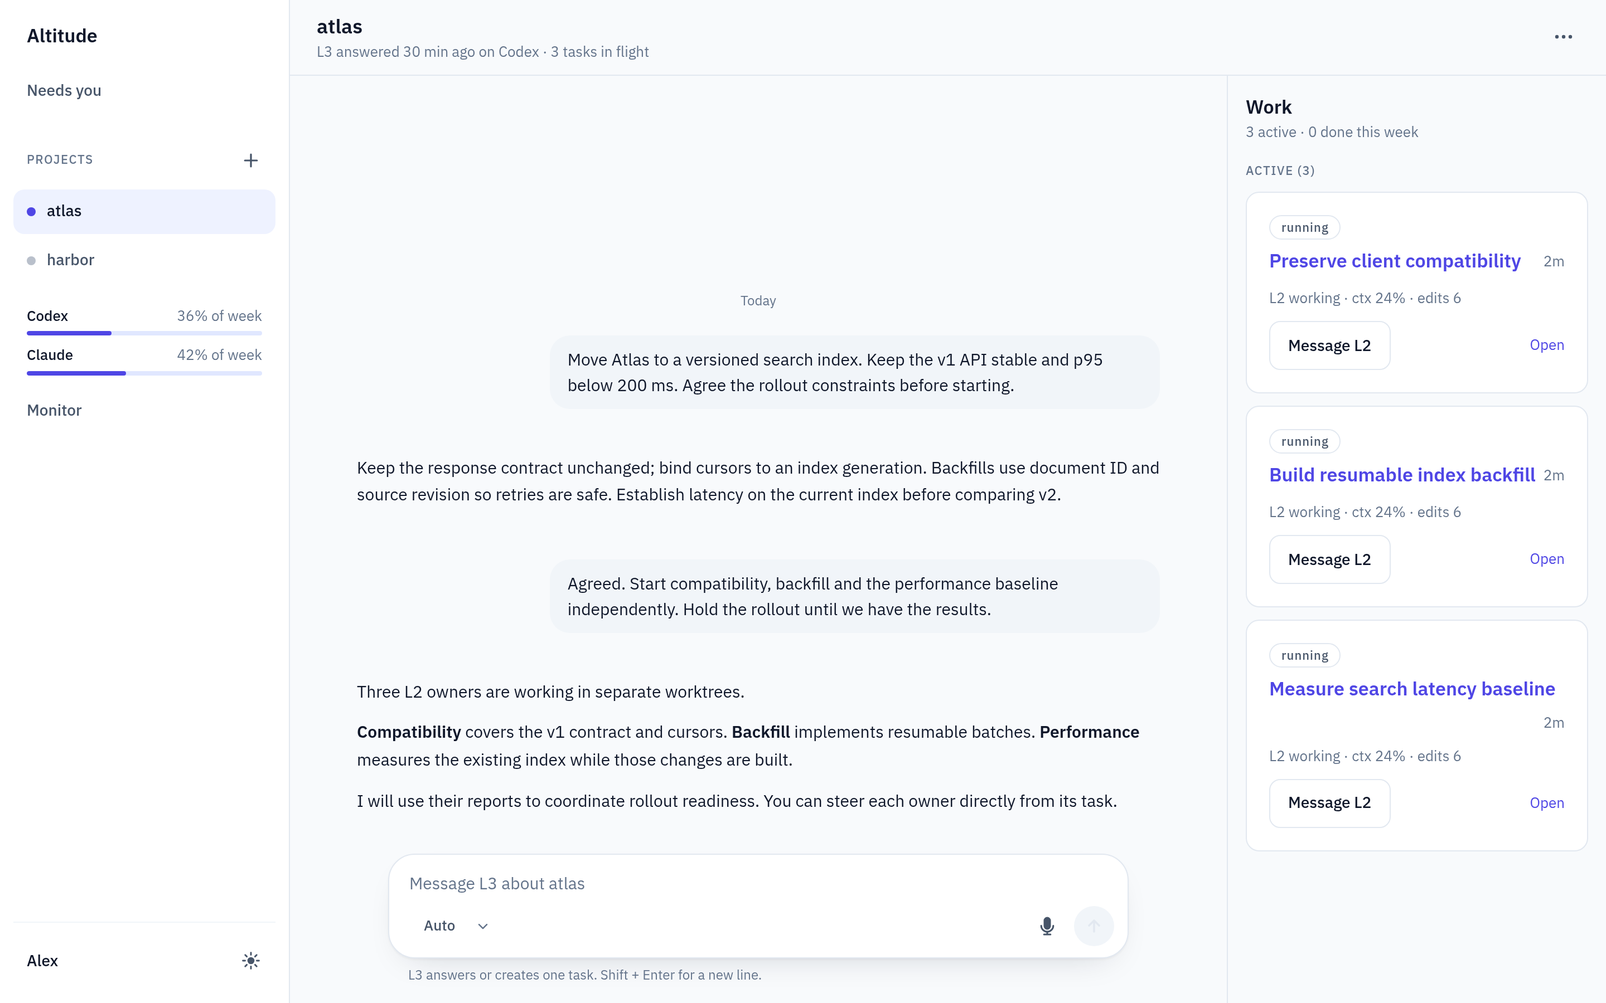
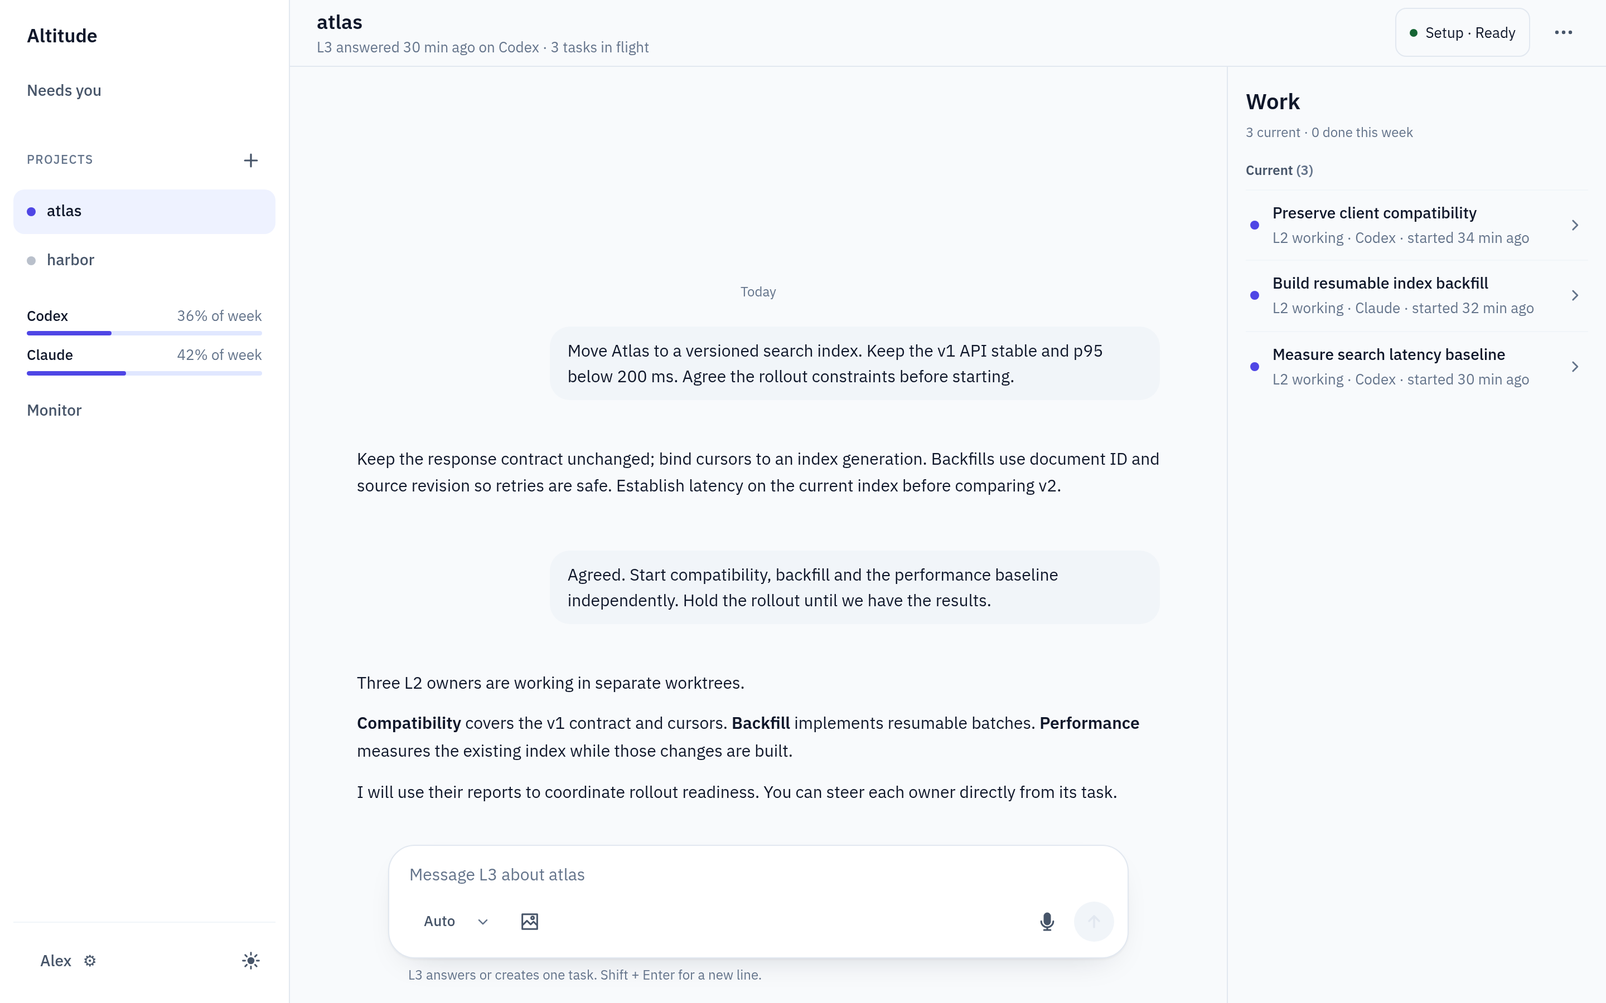
Prepare reference documentation for the concise README

diff --git a/tests/test_project_layers.py b/tests/test_project_layers.py
@@ -45,8 +45,6 @@ PROVIDER_BASELINE = {
 
 #: Occurrences of the operator's name per file, across the layers a reader meets.
 OPERATOR_BASELINE = {
-    "docs/ARCHITECTURE.md": 4,
-    "docs/SESSION_LIFECYCLE.md": 3,
     "web/src/routes/Task.test.tsx": 1,
 }
 

diff --git a/docs/ARCHITECTURE.md b/docs/ARCHITECTURE.md
@@ -10,7 +10,7 @@ acceptance, parent issue and remaining scope; completing a task need not complet
 [incremental delivery](CLI.md#incremental-issue-delivery).
 
 ```text
-Burak
+The operator
   ├─ project direction and roadmap ───────────────► L3
   │                                                  │
   │                                                  └─ dispatches L2 task owners
@@ -45,8 +45,8 @@ memory store. Project-local authority, proposal checkpoints, merge holds and ver
 remain governed by the existing boundaries.
 
 L2 receives the request, repository context, expected files, worktree, branch, and merge policy, and chooses
-the lightest useful execution shape. Its conversation with Burak is stored apart from tool logs, so
-Burak messages it directly without routing through L3. Messages queue on the task and reach the
+the lightest useful execution shape. Its conversation with the operator is stored apart from tool logs, so
+the operator messages it directly without routing through L3. Messages queue on the task and reach the
 worker at its next checkpoint; an explicit Stop ends a worker. Task message writers hold the project
 lock and atomically replace each conversation or inbox file, so concurrent readers see complete records.
 Appending a message to a blocked
@@ -884,7 +884,8 @@ A provider-reported reset schedules resumption. Fresh attempts retain the existi
 uncommitted work, and validate its checkout and adopted ancestry. Task conversations, worker evidence,
 PRs, expected files, questions and merge holds remain. Tier two is L3: whatever remains blocks only its own
 task, files private incident evidence (one incident per source project and fault kind per 24-hour
-window) with its public issue, and leaves an FYI and one message naming both in that same project's L3 queue; a repeat of that kind
+window), publishes its issue when a target is configured, and leaves an FYI and one message with the
+incident and publication status in that same project's L3 queue; a repeat of that kind
 blocking another task or changing its details adds one line for L3 within that window. Full fault
 reasons are the task-local observations: unchanged blockers stay quiet even after the incident window
 expires, including alternating observations from tasks sharing a kind. Changed observations update
@@ -953,9 +954,9 @@ begins without terminal evidence ends visibly uncertain instead of launching ove
 No probe resumes a worker, resolves a question, or releases a merge hold.
 L3 reconciles the next step when a finite probe ends and gives an evidenced heads-up for significant
 stalled work. Repeated observations stay quiet; terminal evidence promises no further scheduled check.
-Project-local repairs remain owned by the affected project. Every incident is published as one
-GitHub issue by `incidents.publish_issue`: system faults publish after the fault lock is released,
-and `alt incident new` publishes after the record is written. The daemon owns the product target
+Project-local repairs remain owned by the affected project. With publication configured,
+`incidents.publish_issue` publishes each incident as one GitHub issue: system faults publish after
+the fault lock is released, and `alt incident new` publishes after the record is written. The daemon owns the product target
 seam, `server.issue_repository`: `config.incident_repository()`, the machine setting
 `incident_repository` when saved (`false` is off), else `ALTITUDE_UPSTREAM_ISSUE_REPOSITORY` in
 altd's environment, and nothing else; off keeps every incident on the machine as a pending record
@@ -1036,6 +1037,8 @@ authorization and post-change health verification.
 
 ## Interfaces and storage
 
+### Conversation-audit pilot
+
 `audit.py` owns the finite pilot for the project named in `config.py`. The operator explicitly starts
 it; installation/registration do not enable it. `audit.json` stores reviewer, expiry, attempts,
 reviewed exchange identities and finding-supply receipts. Sessions wait twelve hours and four new
@@ -1072,6 +1075,8 @@ replay. L3 verifies current tasks/issues and later evidence before action. No is
 dispatcher or instruction editor belongs to the reviewer. Unavailable optional audit evidence never
 blocks ordinary conversation. Model-quality evaluation is separately authorized and reported;
 deterministic fixtures establish application behavior only.
+
+### Image input
 
 Operator images belong to their durable project or task message. `images.py` validates PNG, JPEG
 and static WebP, bounds encoded bytes and decoded dimensions, and normalizes orientation and color
@@ -1112,6 +1117,8 @@ Fresh L2 attempts carry delivered image-message captions and deduplicated canoni
 the same task. Larger sets use native visual readers; history does not become pending delivery again.
 See [image delivery and recovery](SESSION_LIFECYCLE.md#image-delivery-and-recovery).
 
+### Task usage
+
 Task token accounting is passive. `usage.py` retains each recorded task owner identity before a
 resume or recovery replaces it, and asks `engines.py` for normalized local observations. The daemon
 collects at most once per ten seconds per active task; HTTP and CLI reads serve the persisted
@@ -1137,6 +1144,8 @@ parentage kind, owning session, depth when known, and the owning session's recor
 request counters and optional unsplit provider totals remain separate; neither is added again to
 task totals. Missing native evidence yields null counts; a readable native source with no discovered
 helpers yields an observed empty set with partial coverage. No spawn-completeness claim is made.
+
+### Validation and release
 
 The web build uses pnpm's frozen lockfile and emits `web/dist/` through `make web`. `make check`
 runs Python, web unit tests, typecheck/build and the separate Playwright `web/e2e/*.pw.ts` suite.
@@ -1192,6 +1201,8 @@ See [browser verification and recovery](DEVELOPMENT.md#browser-verification-and-
 published private-preview version and release notes. They add no runtime lifecycle state and
 do not gate automatic activation of merged changes. The UI and testing rules remain in the
 project instructions file, which both worker personas direct the task owner to read first.
+
+### Conversations and navigation
 
 The Python server owns state transitions and JSON APIs. The React app is one shell around four
 pages, specified in `design/wireframes/SPEC.md`: Needs you at `/` (every decision across projects as
@@ -1366,6 +1377,8 @@ Loading, empty, missing, denied and unsupported states are explicit; Retry clear
 while reading, and copy failure leaves the full path selectable. Reads are uncached. Closing the
 tab preserves the source conversation and draft. This feature introduces no provider coupling.
 
+### Message delivery and voice
+
 A message sent while L3 is busy is queued, never refused: the composer stays open, the send control
 keeps its arrow, the header names the active work, and the message shows as a muted queued row with
 its run order and Remove until
@@ -1373,7 +1386,7 @@ its turn starts, when the row becomes the turn's bubble and typing indicator. Qu
 user history row and publishes the active record under the same lifecycle guard used by the API's
 history/queue/active snapshot. Routing precedes claim; failed history admission restores the waiting
 queue. The claimed turn reuses its admission and route choice, so the text stays visible through
-handoff and is delivered once. A control takes Burak's chat back off the queue only while it
+handoff and is delivered once. A control takes the operator's chat back off the queue only while it
 waits. Server-triggered work is also visible in its FIFO position but is not editable. The queue is a
 file in the project directory, so a reload, another device and a restart all see the same pending
 messages. Each turn drains it at its own boundary rather than at the next tick: consecutive text chat
@@ -1486,6 +1499,8 @@ entry index indicates an in-app predecessor. With no such predecessor, app Back 
 task entry with the owning project's L3 conversation. Browser Back remains native, and links to
 other pages or tasks still push entries. `web/e2e/task-navigation.pw.ts` exercises Back and Forward
 with real browser history at both viewports.
+
+### Work and attention
 
 The task card (`web/src/components/TaskCard.tsx`, spec §3.5) is one component in two sizes: the
 bordered card under an L3 reply that created the task and the row in the work panel. Its meta line
@@ -1686,6 +1701,8 @@ heads-ups from historical automatic calls that inherited `by: "l3"`; history is 
 nor classified by text. The [L3 persona](../personas/l3.md) owns selection guidance.
 There is no project inbox file and no `fyis` in the digest or overview.
 
+### Voice backend
+
 Voice transcription sits behind the capability seam as one machine setting, `voice`, in the private
 settings file: `browser` (the default), `local`, or an endpoint object with `url`, optional `model`
 and optional `key`. `GET /api/voice` reports backend, URL, model, a `key_set` boolean and an opaque
@@ -1728,6 +1745,8 @@ transcribing, restores the editable field after cancel or error, and leaves the 
 progressive enhancement. Phone access uses an explicitly configured private HTTPS address whose
 certificate covers that address. Safari can use the microphone after the CA is trusted on the phone;
 typing remains available without speech services.
+
+### Design evidence
 
 The same server serves each project's wireframe boards. `GET /design/<project>` redirects to
 `/design/<project>/design/wireframes/index.html`, read from that project's own deployment checkout on
@@ -1777,6 +1796,8 @@ their revision and link back to its historical question; current question metada
 replacing the displayed capture. First acceptance also verifies the saved evidence; identical retries
 of an already recorded decision retain their receipt. Viewing and follow-ups do not decide anything,
 and neither design acceptance nor publication releases a merge hold.
+
+### Monitor and live sessions
 
 The Monitor page reads `/api/monitor`; no hold, incident, route or follow-up work is derived from
 those readings. Its separate update section reads the shared overview and offers the existing

diff --git a/docs/SESSION_LIFECYCLE.md b/docs/SESSION_LIFECYCLE.md
@@ -708,8 +708,8 @@ the resolved live record has moved; subsequent reads use the archived conversati
 `dispatch.resume` is the only way a session is launched again, and altd owns it for message-triggered and
 explicit resumes. `alt task resume`, `stop`, and `reject` require a reason and persist a task-local
 `daemon_request`; the CLI process performs no Git or worker operation. One `daemon-request` event names
-the task, operation, actor (`l3` or `burak`), reason, and request id. Altd executes the request, refuses
-a changed state or worker/session identity, and makes a retry with the same reason and actor idempotent
+the task, operation, actor (`l3` or `config.OPERATOR_ACTOR`), reason, and request id. Altd executes the
+request, refuses a changed state or worker/session identity, and makes a retry with the same reason and actor idempotent
 while its terminal state/worker receipt still matches. A later lifecycle receives a new request and event.
 The inbox and `resume_after` are the coordinator-to-daemon boundary: they survive coordinator exit and daemon
 restart. The keyed runner is the in-process fast path; a durable claim is the cross-process fence. Its
@@ -767,7 +767,7 @@ the replacement worker. Failed sends restore their text alongside newer draft ed
 the operator switches to Live session before the response arrives. Accepted sends remain sent.
 `alt task resume --reason …` is also an explicit continuation; Reject ends the task and removes its
 worker in altd. Stop does not undo completed external effects. An L2 that blocks with
-`--fault` takes the system-fault path instead of asking Burak: the task, incident, FYI and L3
+`--fault` takes the system-fault path instead of asking the operator: the task, incident, FYI and L3
 notification all stay in its project. Incidents use the source project and kind for a 24-hour window;
 another task newly blocked by that kind or changed same-kind details still notify its L3 with the
 same incident reference within the window. Each task retains its full fault reason, so unchanged
@@ -776,9 +776,10 @@ resume based on older evidence; an unchanged observation preserves a supported r
 Repair-task faults (`--source recovery`) never wake L3
 again. Faults without a project notify registered `altitude`, or only update the machine fault
 ledger if it is absent. A failed resume blocks the task with an incident and leaves the provider
-conversation to its project's L3. Every incident becomes one sanitized
-[incident issue](CLI.md#incident-issues) at the daemon's configured product target; local
-incidents and project-local recovery work stay with the affected project. An incident from another
+conversation to its project's L3. When a publication target is configured, every incident becomes
+one sanitized [incident issue](CLI.md#incident-issues) there; without one, it stays local with an
+explicit pending-publication reason. Local incidents and project-local recovery work stay with
+the affected project. An incident from another
 managed project sends one fixed public issue-link notification to registered local `altitude` when
 its Git origin matches that target. Without a matching project, the issue stands alone. The
 notification moves no evidence and creates, reuses, resumes, or coordinates no receiving-project
@@ -1045,7 +1046,7 @@ Leaving a voice composer releases microphone tracks and cancels recording or Sto
 An explicit voice Send completes for its original project or task despite navigation; pending status
 and any recoverable failure stay in that source conversation. Outstanding microphone permissions and
 transcription results cannot populate a different conversation.
-L3 runs headless, so its only checkpoint is the turn boundary: a message Burak
+L3 runs headless, so its only checkpoint is the turn boundary: a message the operator
 sends while a turn is in flight is appended to the project's durable L3 queue and run there, never
 injected into the running turn. The finishing turn drains the queue itself, one turn at a time and in
 arrival order, batching consecutive chat rows for the same conversation while keeping system turns

diff --git a/docs/OPERATIONS.md b/docs/OPERATIONS.md
@@ -46,6 +46,15 @@ eligible resumes across all projects take available slots before fresh work. Pla
 guide coordination; overlapping files do not hold dispatch.
 Owners rebase before landing and keep edits in shared documents to their own sections.
 
+Inspect routing, usage windows and observed sessions in **Monitor**. Missing or stale readings
+remain explicit. **Settings → This project**, opened from the project's three dots, sets independent
+model and effort defaults for L3 and L2 on each engine. These settings preserve running task attempts;
+L3 defaults apply on its next turn, while L2 defaults apply on fresh dispatch. Unset effort is native
+except High for a Codex L2; **Native** explicitly requests no effort override. Higher effort can use more
+time and tokens. The CLI reference covers [routing preferences](CLI.md#automatic-routing-preferences),
+[model defaults](CLI.md#default-models) and [effort selection](CLI.md#task-reasoning-effort),
+including the same settings from the terminal.
+
 L3 and the operator file requested backlog through altd with `alt issue new --title '…' -`
 or `alt issue comment <number> -` (body on stdin). Authorized complete deliveries use reviewed
 PR closing links; when an already merged delivery lacks its link, L3 verifies the issue's full
@@ -56,6 +65,16 @@ L3 does not select or clean up unrelated backlog autonomously. L2 routes direct 
 through its task reply and report follow-ups and cannot mutate issues directly. See
 [GitHub issues](CLI.md#github-issues) for arguments and the rule excluding home paths and private
 incident evidence from published text.
+
+## Remove a project
+
+In the project's **More actions** menu, **Remove project** detaches its coordinator and stops
+Altitude management. Finish or reject unfinished tasks, then wait for their workers and any
+coordinator turn. The repository, remaining worktrees, history, provider sessions and queued
+messages stay on disk. Add the same folder and project name again to restore the history and
+resume waiting messages. Removing the last project opens First run; otherwise a remaining
+project is selected. `alt project remove <name>` uses the same checks. See
+[project lifecycle](CLI.md#project-lifecycle).
 
 ## Incident publication
 

diff --git a/docs/WALKTHROUGH.md b/docs/WALKTHROUGH.md
@@ -5,6 +5,18 @@ versioned index; Harbor is a second fictional project. Every message, task, usag
 tool result below is fixture data rendered by the real web application. The captures demonstrate
 the interface, not a migration that an agent actually delivered.
 
+## Who carries the work
+
+You set direction and make decisions that need your judgment. Each project has a persistent
+coordinator (L3); each task has an owner (L2) responsible for investigation through delivery.
+An owner can delegate bounded work to native helpers (L1) and remains responsible for the result.
+You can talk to an owner directly as well as through the project conversation.
+
+<picture>
+  <source media="(max-width: 600px)" srcset="images/orchestration-phone.svg">
+  <img src="images/orchestration.svg" alt="The operator directs the project coordinator and can steer task owners directly. Each owner chooses and integrates its own native helpers." width="1200">
+</picture>
+
 ## Keep the project direction in one conversation
 
 In **Atlas**, discuss the migration with L3, the project's persistent orchestrator. Preserve the
@@ -65,8 +77,8 @@ recommend seven days for the pilot, but the storage cost and rollback window nee
 It escalates that question. The other task owners can continue while this one waits.
 
 **Needs you** gathers unanswered operator questions across projects. Open a question to read its
-context and discuss it in the owning L2 conversation. Explicit quick choices answer a single
-question immediately; a group lets you pick answers and send them together. You can also type,
+context and discuss it in the owning L2 conversation. Pick choices, then use **Send N answers**
+to submit them; even a single choice stays staged until you send it. You can also type,
 “Keep the old index for seven days; include that limit in the rollout notes.” The owner records
 that decision against your message. A follow-up keeps the question open, and a saved answer does
 not by itself mean work has resumed or a merge hold has been released.

diff --git a/AGENTS.md b/AGENTS.md
@@ -1,7 +1,8 @@
 # Working in Altitude
 
-Read `README.md` and `docs/ARCHITECTURE.md` before changing behavior. They are the active system
-description; Git history is the archive.
+Read `README.md` for the public introduction and `docs/ARCHITECTURE.md` for the active system
+description before changing behavior. Follow the relevant lifecycle, setup and operations links
+there; Git history is the archive.
 
 `AGENTS.md` is the authoritative project rule source for both engines; `CLAUDE.md` imports it.
 Current system behavior and useful rationale live in the linked documentation. Ask the operator
@@ -57,9 +58,10 @@ development/admin exposure grants no new privilege model, generic flag framework
   isolated worktree/branch and PR, explicit scope/exclusions, unrelated-work preservation and
   review of all outgoing history. L3 remains read-only on the deployment checkout and changes
   operational state only through documented `alt` verbs.
-- Ship the docs with the change: a PR that changes behavior updates `README.md`,
-  `docs/ARCHITECTURE.md`, and `docs/SESSION_LIFECYCLE.md` wherever they describe that behavior, in
-  the same PR and in present tense.
+- Ship the docs with the change: update the linked system documentation wherever it describes
+  changed behavior, including architecture, session lifecycle, setup and operations as applicable.
+  Update `README.md` when its public introduction, workflow or getting-started guidance changes.
+  Keep these updates in the same PR and in present tense.
 - Major UX changes, cost-accruing infrastructure, identity, or security changes hold for operator review.
   A hold report explains the strategy and decisions made. Explicit task authorization governs the hold.
 - [L2 delivery and completion](personas/l2.md#delivery-and-completion) owns landing, holds,

diff --git a/docs/SETUP.md b/docs/SETUP.md
@@ -55,6 +55,24 @@ select absolute paths. [Configuration](#configuration-and-limits) describes save
 For nvm installations, Altitude discovers the installed default when Node is absent from PATH;
 enable its Corepack pnpm shim for project builds. See [noninteractive toolchain setup](DEVELOPMENT.md#noninteractive-toolchain).
 
+### Installation with a coding agent
+
+An agent running on your machine can help follow this guide, check prerequisites and run the
+installer. This is assisted setup, not a validated unattended installation. Use the instructions
+shipped with the version you select; the repository's current guide may describe a newer version.
+Have the agent check your normal engine and project-tool environment before installing, since
+the service saves that PATH. Missing preview artifacts or failed checks need resolution, not a
+workaround that disables a safeguard.
+
+Complete authentication in your own terminal or browser; do not paste credentials into the agent
+conversation or let it copy credential files. Review any proposed privileged changes or replacement
+of existing settings. Certificate trust is your decision: compare the printed fingerprint and
+follow the device instructions below. Keep localhost HTTPS and the documented authority settings.
+Finish with `alt doctor`, then register your chosen project yourself. Installation help does not
+authorize discovering repositories or starting work in them.
+
+The [README prompt](../README.md#get-started) provides a short starting point for this assistance.
+
 ### Trust HTTPS on each device
 
 Trusting Altitude's own certificate authority (CA) once on each device removes the browser warning

diff --git a/design/readme/README.md b/design/readme/README.md
@@ -1,7 +1,8 @@
 # README visuals
 
-The README combines an editable SVG explanation of project orchestration with captures of the
-actual built web app. [The walkthrough](../../docs/WALKTHROUGH.md) carries the longer scenario.
+The README shows the project conversation and work in one responsive capture of the actual
+built web app. [The walkthrough](../../docs/WALKTHROUGH.md) carries the longer scenario, task
+captures and editable SVG explanation of the roles.
 
 `fixtures.mjs` contains fictional Atlas and Harbor projects: conversations, three search-index
 migration tasks, a live transcript and engine readings. None comes from an operator's
@@ -52,7 +53,8 @@ message. Quota numbers are illustrative.
   sanitized Markdown, image paths and anchors, then inspect both widths. Open the original images
   to review details that are small in a desktop README column.
 
-The curated project/task images were captured at `8562ca1` (merged through #238); they explain
+The curated project/task images use application source at `6654927` and the fixtures in this
+directory; they explain
 project coordination, direct task steering and the separate phone panes. The two orchestration
 SVGs explain the same role relationships in wide and narrow layouts. Task token readings are
 absent from this fixture, so the app shows its unknown state. Current decision behavior lives in
